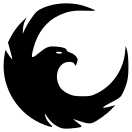
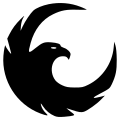
rect smaller image and enabled date, v0.3 bump

diff --git a/src/watch_config.h b/src/watch_config.h
@@ -19,7 +19,7 @@
 
 #define DATE_FMT_STR "%a\n%b\n%d"  /* TODO review %d for day */
 #define MAX_DATE_STR "Thu\n00\nAug"  /* if custom version of DATE_FMT_STR is set, MAX_DATE_STR  needs to be updated too */
-#define NO_DATE
+//#define NO_DATE
 
 #define DRAW_BATTERY
 //#define DRAW_SMALL_BATTERY
@@ -54,7 +54,7 @@
     #define IMAGE_RES_X 132  /* NOTE if image res changes - this needs to change too! */
     #define IMAGE_RES_Y 132  /* NOTE if image res changes - this needs to change too! */
     /* Image at top of screen, centered horizontally */
-    #define BG_IMAGE_GRECT GRect((144 - IMAGE_RES_X) / 2, 0,  IMAGE_RES_X, IMAGE_RES_Y)  // use same size as image. On Aplite can determine this at runtime but not Basalt
+    #define BG_IMAGE_GRECT GRect((144 - IMAGE_RES_X) / 2, 5,  IMAGE_RES_X, IMAGE_RES_Y)  // use same size as image. On Aplite can determine this at runtime but not Basalt
 
     //#define CLOCK_POS GRect(0, 136, 144, 168) /* bottom of screen for FONT_KEY_BITHAM_30_BLACK */
     #define CLOCK_POS GRect(0, 118, 144, 168) /* bottom of screen for FONT_KEY_ROBOTO_BOLD_SUBSET_49 with one pixel border on bottom */
@@ -69,7 +69,7 @@
 
     #define DATE_POS GRect(0, -5, 144, 168) /* probably taller than really needed */
     #ifdef DRAW_BATTERY
-        #define BAT_POS GRect(3, 3, 144, 168)
+        #define BAT_POS GRect(8, 8, 144, 168)
     #else
         #define BAT_POS GRect(0, 0, 144, 168) /* probably taller than really needed */
     #endif /* DRAW_BATTERY */
